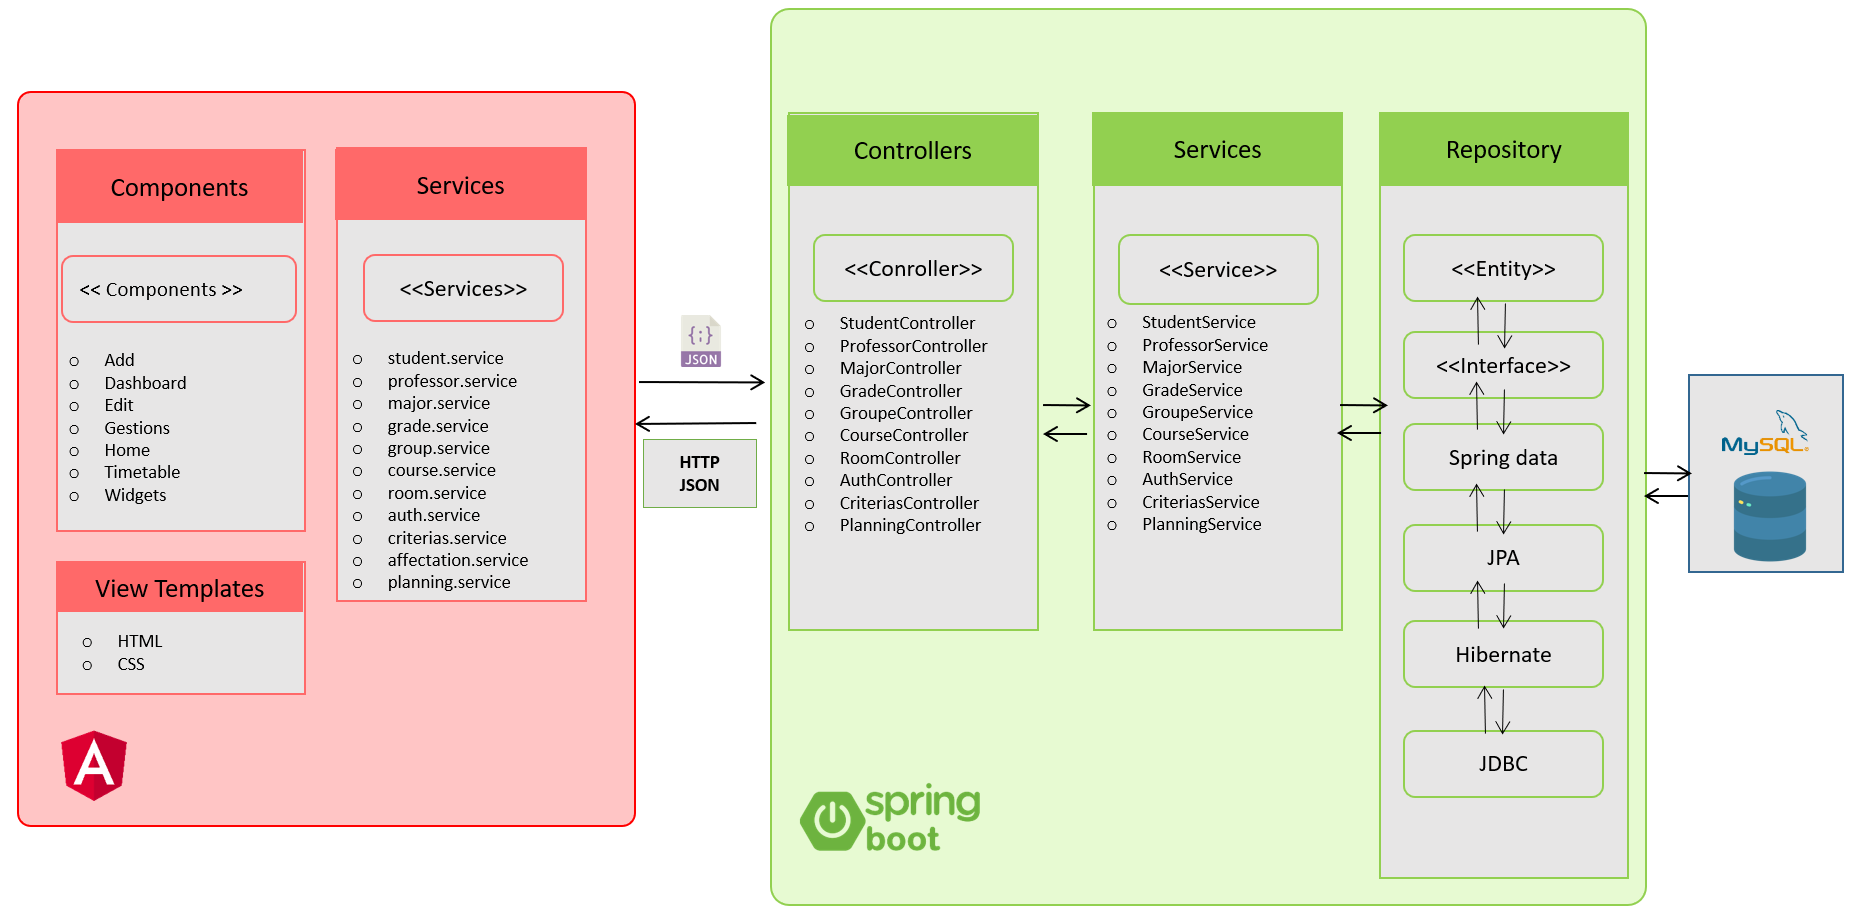
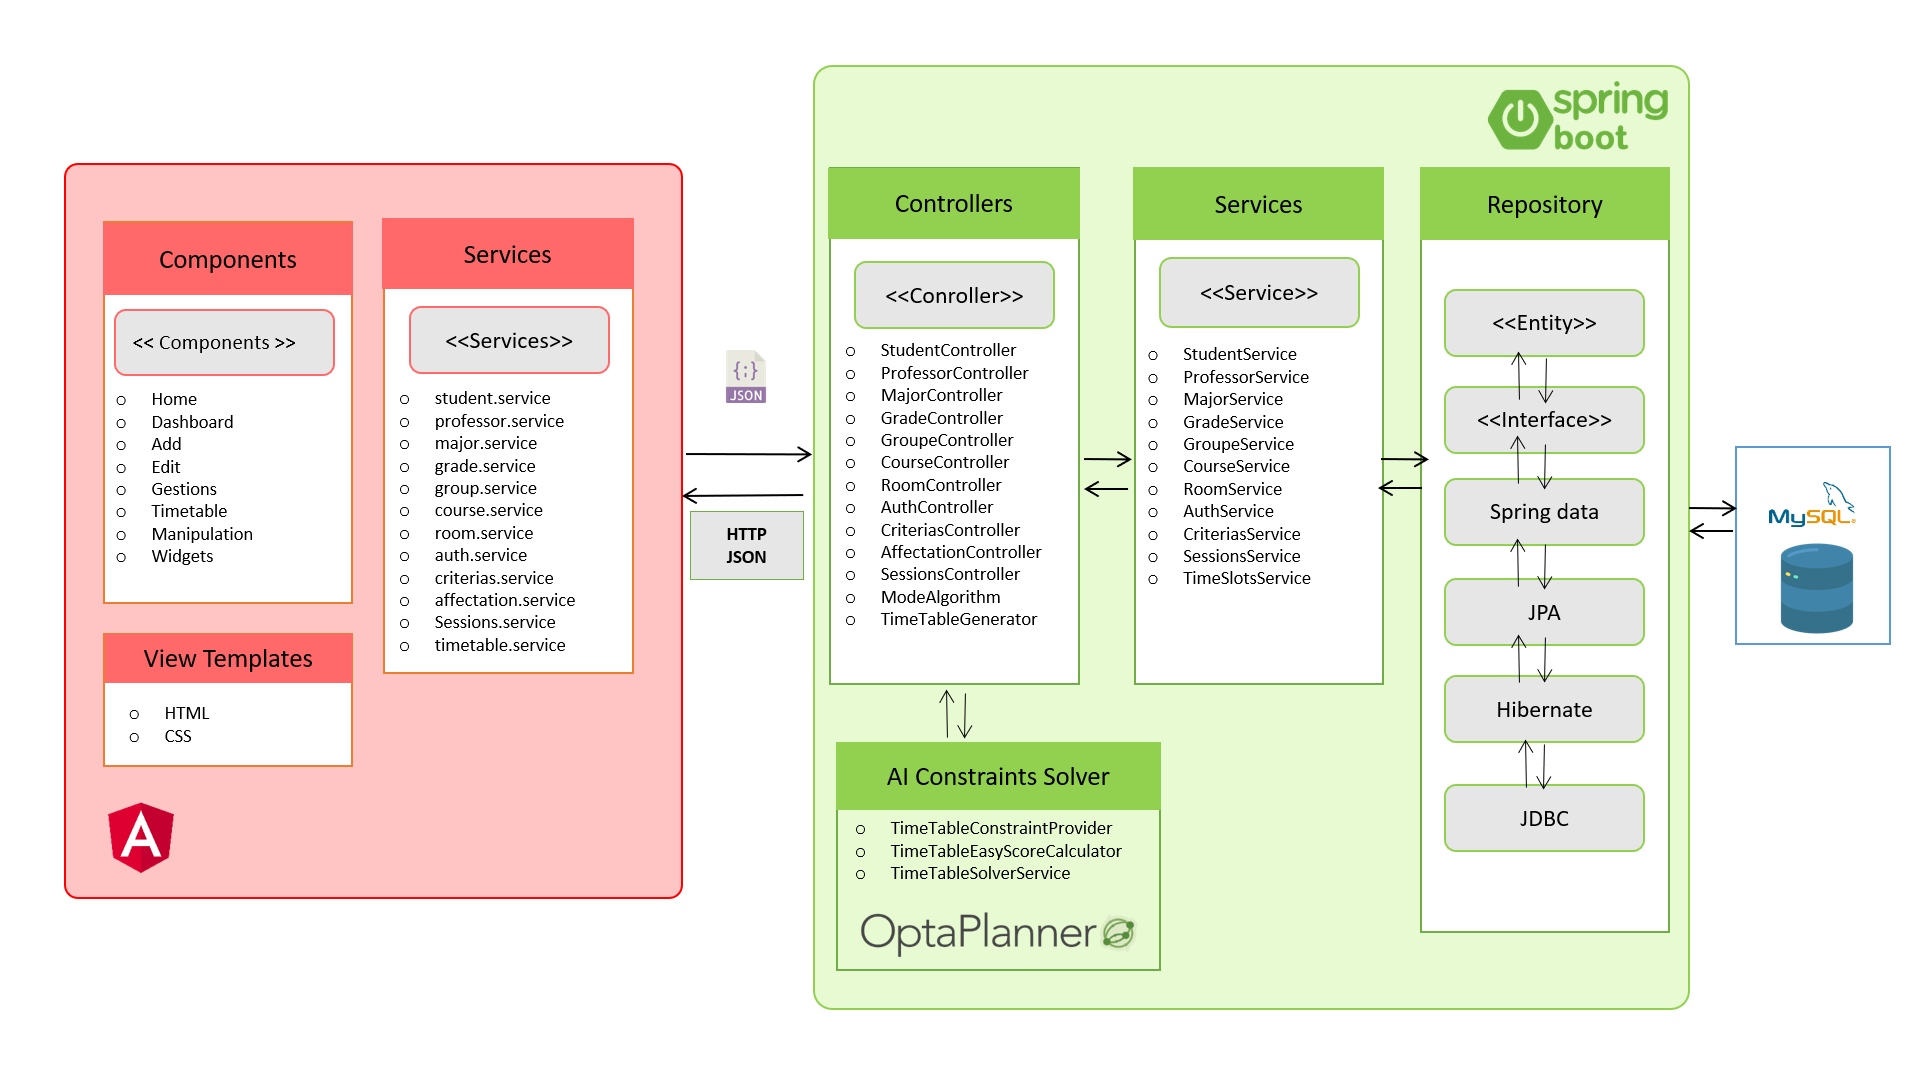
last one

diff --git a/README.md b/README.md
@@ -141,8 +141,19 @@ The backend code follows a modular and organized structure, leveraging the power
 3. **MySQL Connector/J:**
    - Purpose: JDBC driver for connecting to a MySQL database.
 
-4. **OpenPDF:**
-    - Purpose: Library for creating and manipulating PDF documents.
+4. **OptaPlanner:**
+    - Purpose: OptaPlanner is an AI constraint satisfaction solver that is used for automated planning and optimization. It provides optimization algorithms to solve complex planning problems, making it suitable for scenarios like resource allocation, scheduling, and more in your blended learning platform.
+```xml
+        <dependency>
+            <groupId>org.optaplanner</groupId>
+            <artifactId>optaplanner-core</artifactId>
+        </dependency>
+        <dependency>
+            <groupId>org.optaplanner</groupId>
+            <artifactId>optaplanner-test</artifactId>
+            <scope>test</scope>
+        </dependency>
+```
 
 ## Getting Started
 
